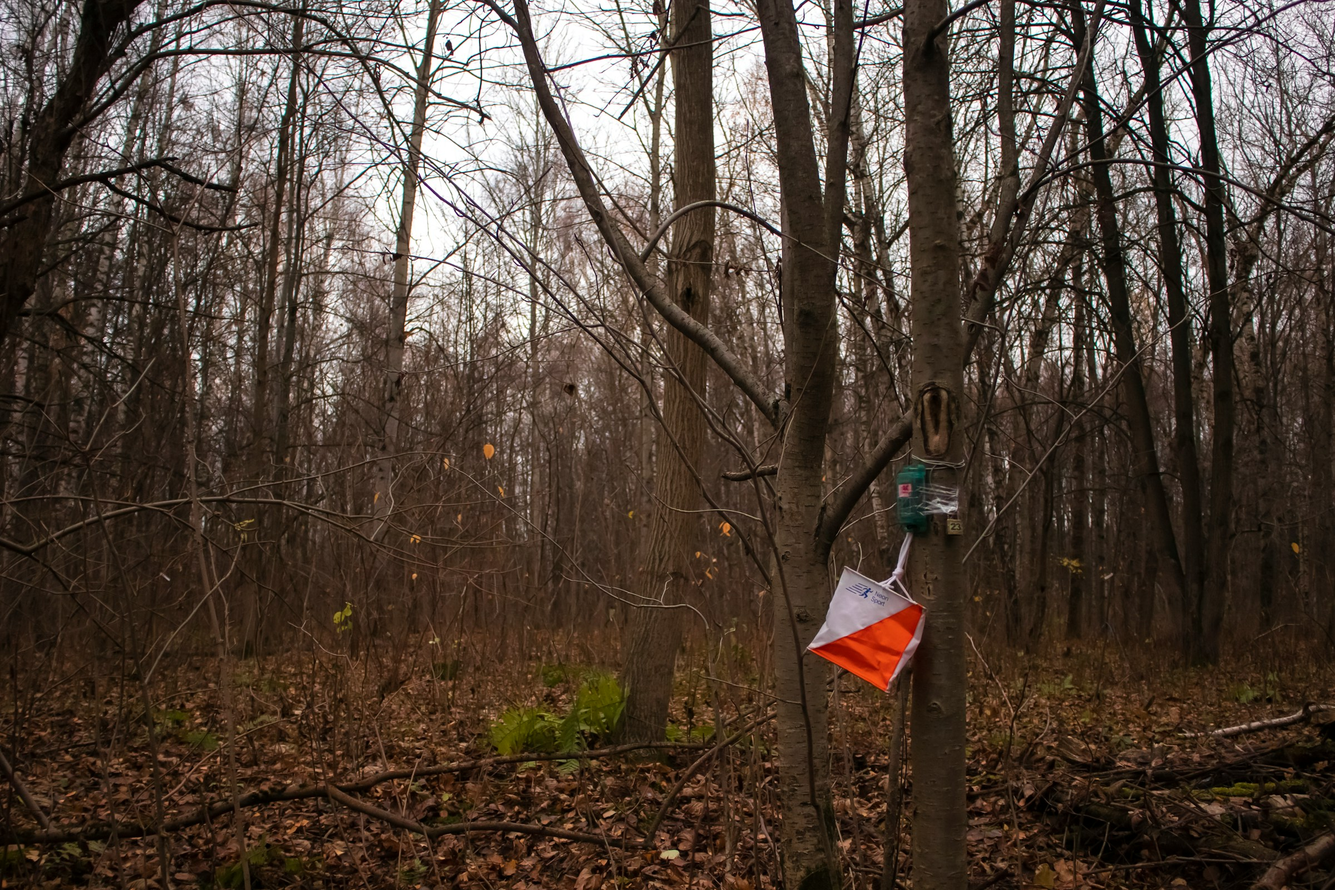
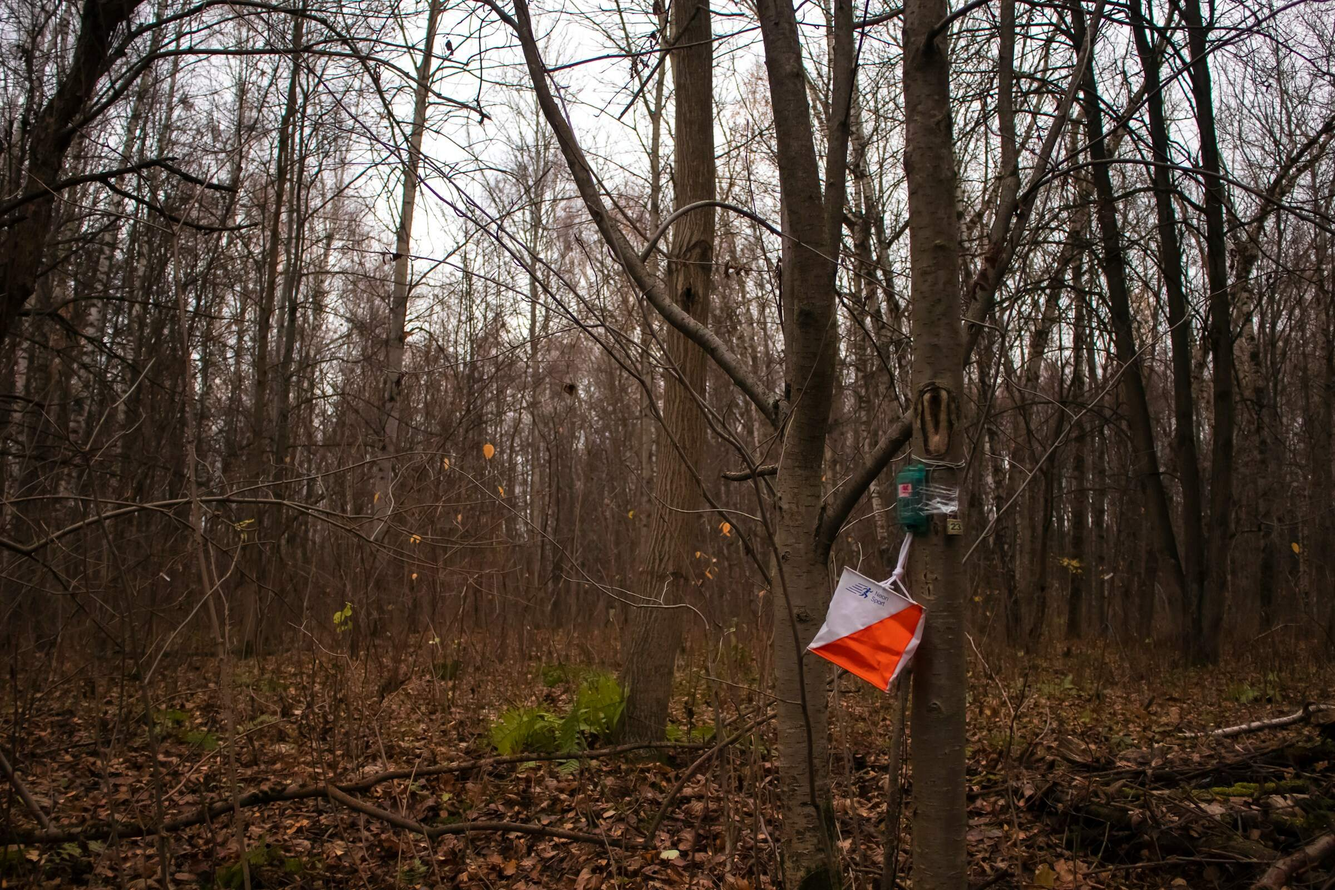
compress images 1

Changed region(s): [[0.8125, 0.0, 0.8438, 0.0312], [0.3438, 0.0, 0.375, 0.0312], [0.3125, 0.0625, 0.3438, 0.0938]]

diff --git a/css/style.css b/css/style.css
@@ -93,7 +93,7 @@ nav .close path {
 }
 
 .item-1 {
-  background-image: url(../images/picture-1.png); 
+  background-image: url(../images/picture-1.jpg); 
   /* Как разместить изображение посередине? */
   /* Изменить формат на jpg */
 }
